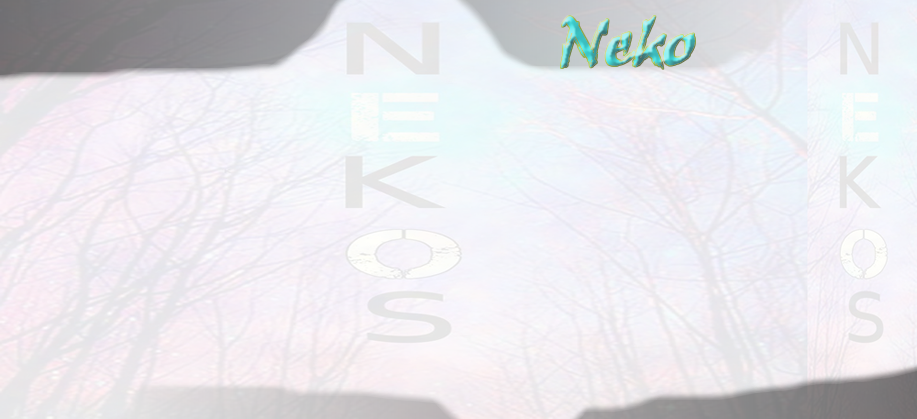
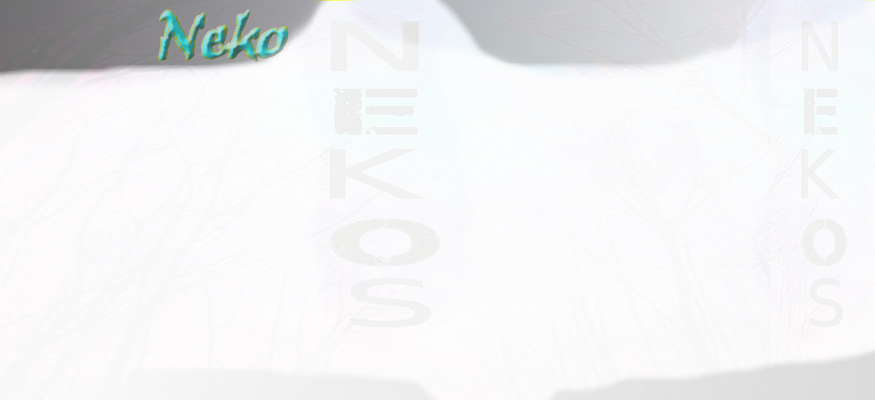
CSS Neko

diff --git a/CSS/Chatovod/Neko/3.css b/CSS/Chatovod/Neko/3.css
@@ -1,21 +1,9 @@
 body {
 	font-weight:bold ;
 }
-.chatHeaderWrapper, .chatRooms ul li.active a, .chatRooms ul li.blink a, .chatRooms ul li:hover a, .chatRoomsButton a:hover, .closeIconWrapper > .closeIconColor, .chatWindow .header{
-	background-color: #000000;
-	color:#ffff00;
-}
-.chatHeaderWrapper .goog-menu-button-open, .chatHeaderWrapper .goog-menu-button-hover {
-	background-color: #237d82;
-}
-.chatHeaderWrapper .menuItem .text {
-	color: #828effee;
-
-}
 .chatRoomsAndMessages{
 	background-image:url("https://raw.githubusercontent.com/ArtEze/Otecald/master/CSS/Chatovod/Neko/Neko.png");
 	border: 2px solid #828effee;
-	background-repeat: repeat-x;
 }
 .chatMessagesScrollBar div {
 	background-color: #828effee;
@@ -26,7 +14,6 @@ body {
 .chatUsersTab {
 	background-position: center;
 	background-image: url("https://vignette.wikia.nocookie.net/noragami/images/2/26/Neko.gif");
-	background-repeat: no-repeat;
 	background-color: #ffffff;
 	border: 2px solid #000000;
 }
@@ -45,8 +32,6 @@ body {
 .chatSendControlsWrapper{
 	background-color: #abcdefef;
 	border: 2px solid #3d85c6;
-	left:  2px;
-	right: 2px;
 }
 textarea{
 	color: #123456;
